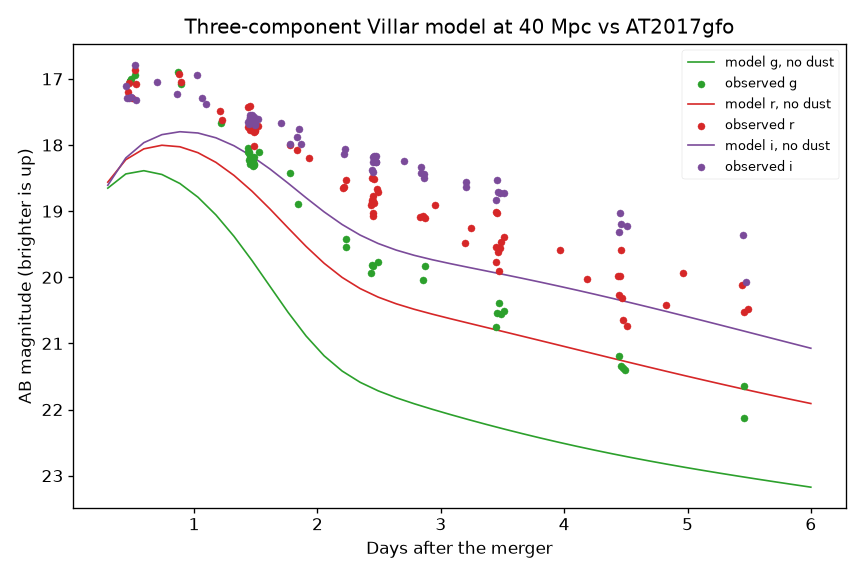
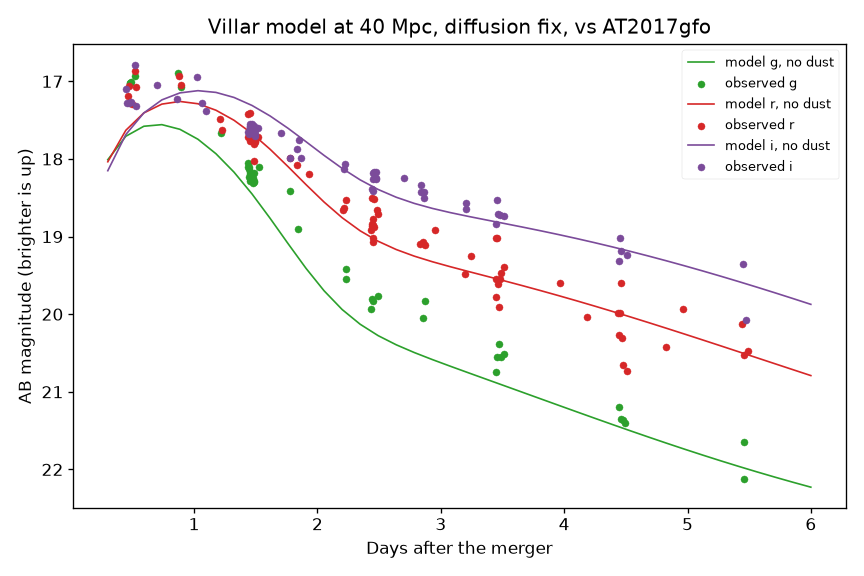
Regenerate the AT2017gfo figure with the diffusion fix.
Early g is still 0.65 mag faint. Heating, time zero, dust, distance,
and the blue temperature floor do not account for that gap. The
wrapper tests also turn matplotlib LaTeX back off.

diff --git a/src/kilonova_hunter/brightness.py b/src/kilonova_hunter/brightness.py
@@ -8,7 +8,9 @@ Milky Way correction. This figure subtracts the Fitzpatrick 1999 law
 at E(B-V) = 0.105 and R_V = 3.1, and plots the model with no dust, so
 the two can be compared.
 
-The model is the Table 2 center (no scatter) at 40 Mpc.
+The model is the Table 2 center (no scatter) at 40 Mpc. The light
+curve goes through the diffusion wrapper, so the Arnett factor of 2
+is included. The installed redback package is not edited.
 """
 
 from __future__ import annotations
@@ -104,7 +106,7 @@ def write_brightness_check(
     axis.invert_yaxis()
     axis.set_xlabel("Days after the merger")
     axis.set_ylabel("AB magnitude (brighter is up)")
-    axis.set_title("Three-component Villar model at 40 Mpc vs AT2017gfo")
+    axis.set_title("Villar model at 40 Mpc, diffusion fix, vs AT2017gfo")
     axis.legend(fontsize=8, loc="upper right")
     matplotlib.rcParams["text.usetex"] = False
     figure.tight_layout()

diff --git a/tests/test_redback_fix.py b/tests/test_redback_fix.py
@@ -5,6 +5,11 @@ import pytest
 
 pytest.importorskip("redback")
 
+import matplotlib
+
+# redback turns LaTeX on at import. This machine has no LaTeX install.
+matplotlib.rcParams["text.usetex"] = False
+
 from kilonova_hunter.redback_fix import (  # noqa: E402
     REQUIRED_REDBACK_VERSION,
     corrected_diffusion,

diff --git a/src/kilonova_hunter/redback_fix.py b/src/kilonova_hunter/redback_fix.py
@@ -82,3 +82,7 @@ def corrected_diffusion() -> Iterator[None]:
         yield
     finally:
         kilonova_models._kilonova_diffusion_luminosity = original
+        # The model call can turn LaTeX back on. Put it back off.
+        import matplotlib
+
+        matplotlib.rcParams["text.usetex"] = False

diff --git a/results/early_g_gap.md b/results/early_g_gap.md
@@ -1,0 +1,72 @@
+# Early g gap after the diffusion fix
+
+The figure `docs/at2017gfo_brightness_check.png` was regenerated with
+the diffusion wrapper. The model is the Villar Table 2 center at 40 Mpc
+with no dust. The points are Open Kilonova Catalog g, r, and i, with
+Fitzpatrick 1999 extinction removed at E(B-V) = 0.105 and R_V = 3.1.
+A positive number means the model is fainter than the corrected point.
+Each cell is the median over the points in that window, in magnitudes.
+
+| window (days) | g | r | i | n (g, r, i) |
+| --- | --- | --- | --- | --- |
+| 0.4–0.8 | +0.65 | +0.41 | +0.34 | 4, 5, 7 |
+| 0.8–1.5 | +0.20 | −0.06 | −0.29 | 25, 29, 24 |
+| 1.5–3.0 | +0.46 | +0.17 | +0.10 | 11, 23, 21 |
+| 3.0–6.0 | +0.26 | +0.00 | +0.10 | 11, 25, 13 |
+
+Early g is still 0.65 mag faint. The ~0.3 mag target is not met there.
+Later r is within about 0.2 mag, and r after day 3 is about 0.
+
+Nothing below changes the model. Each line is how much of that 0.65 mag
+the check can account for.
+
+## (i) Heating rate and thermalization
+
+redback 1.20.0 `_one_component_kilonova_model` uses
+
+- heating `4.0e18 * M * (0.5 - arctan((t - 1.3) / 0.11) / pi)^1.3`,
+  with t, 1.3, and 0.11 in seconds
+- thermalization `0.36 * (exp(-a t_days) + log1p(2 b t^d) / (2 b t^d))`,
+  with a, b, d from the Barnes and Kasen 2016 grid
+
+MOSFiT `rprocess.py` uses the same heating formula, the same 0.36, and
+the same Barnes and Kasen grid. The efficiency changes with time. The
+difference explains about 0 mag of the 0.65.
+
+## (ii) Time zero
+
+The photometry clock and the model both use the GW trigger,
+MJD 57982.528524. The catalog also lists the merger at MJD 57982.5,
+which is 0.0285 days earlier. GRB 170817A is 1.7 seconds after the
+merger. Over 0.4–0.8 days the fixed model g changes by about −0.51
+mag per day (still getting brighter). A 0.0285-day shift is about
+0.015 mag. That is about 0.01 mag of the 0.65, not the gap itself.
+This note does not quote a separate MOSFiT fitted explosion time; the
+Villar text that was available ties the light curve to the merger.
+
+## (iii) Dust and distance
+
+The catalog magnitudes are not corrected for Milky Way dust. The figure
+removes Fitzpatrick extinction before the comparison: A_g = 0.38 mag,
+A_r = 0.27 mag, A_i = 0.20 mag at E(B-V) = 0.105. The 0.65 mag gap is
+what remains after that correction, so a missed dust correction is not
+sitting inside it.
+
+The model is at 40 Mpc. The catalog luminosity distance is 43.2 Mpc,
+which would make the model 0.17 mag fainter (`5 log10(43.2/40)`).
+Putting the model at 40 instead of 43 makes the faint gap smaller, not
+larger. NGC 4993 at 39.5 Mpc is 0.03 mag from 40. Distance contributes
+about 0 mag to the model being too faint, and the 43.2 Mpc choice would
+add about 0.17 mag to the gap rather than remove it.
+
+## (iv) Blue-component temperature before day 1
+
+With the diffusion wrapper, the blue component (0.020 solar masses,
+0.266c, opacity 0.5, floor 674 K) has a temperature of about 7000 K at
+0.3 days, 6200 K at 0.5 days, and 5700 K at 0.8 days. The 674 K floor
+is not binding. It explains about 0 mag of the 0.65.
+
+## What is left
+
+(i) through (iv) add up to about 0.01 mag. The 0.65 mag early-g gap is
+still there after the diffusion fix and after these four checks.
